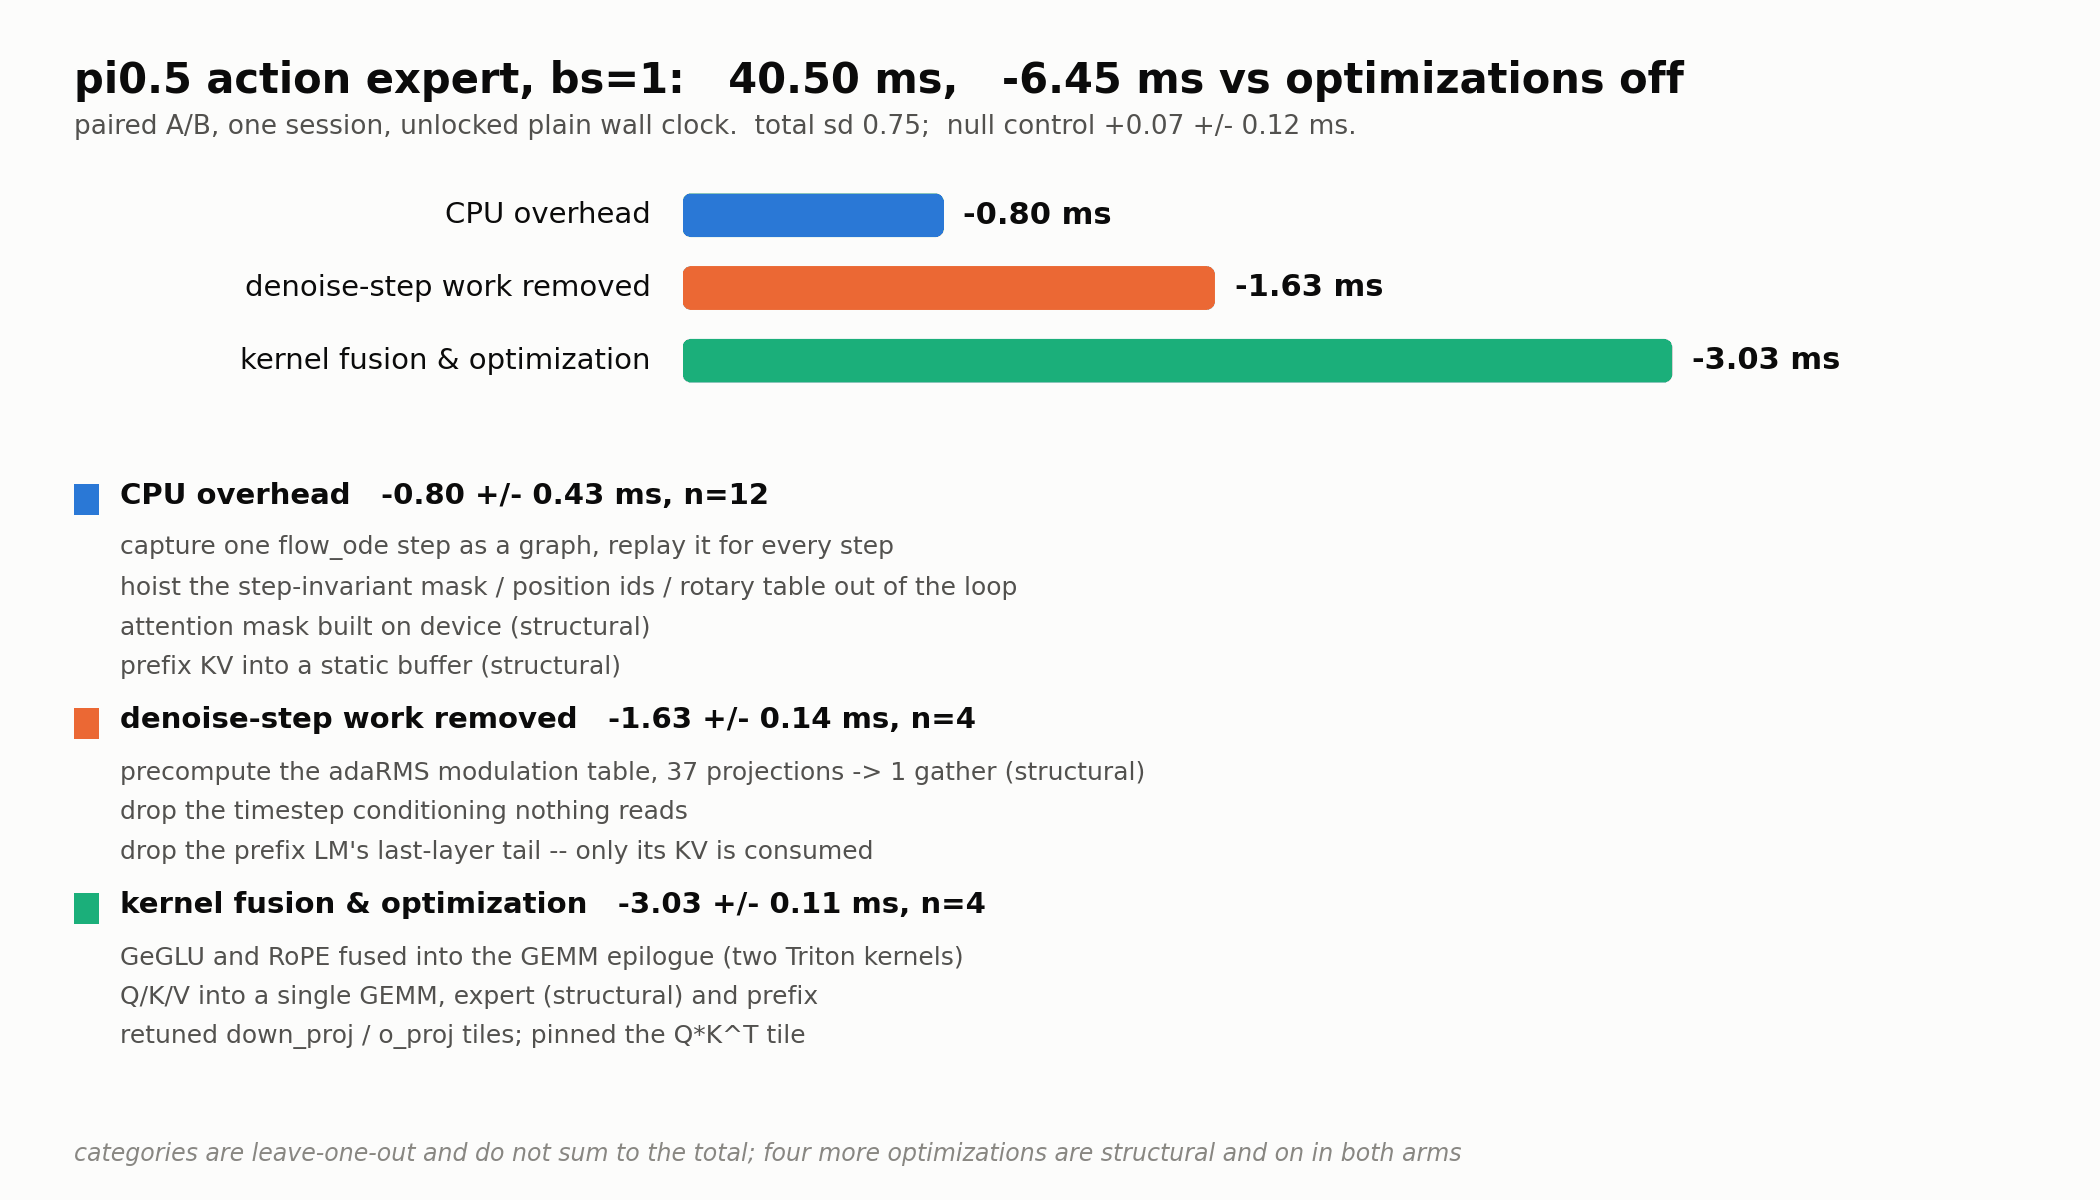
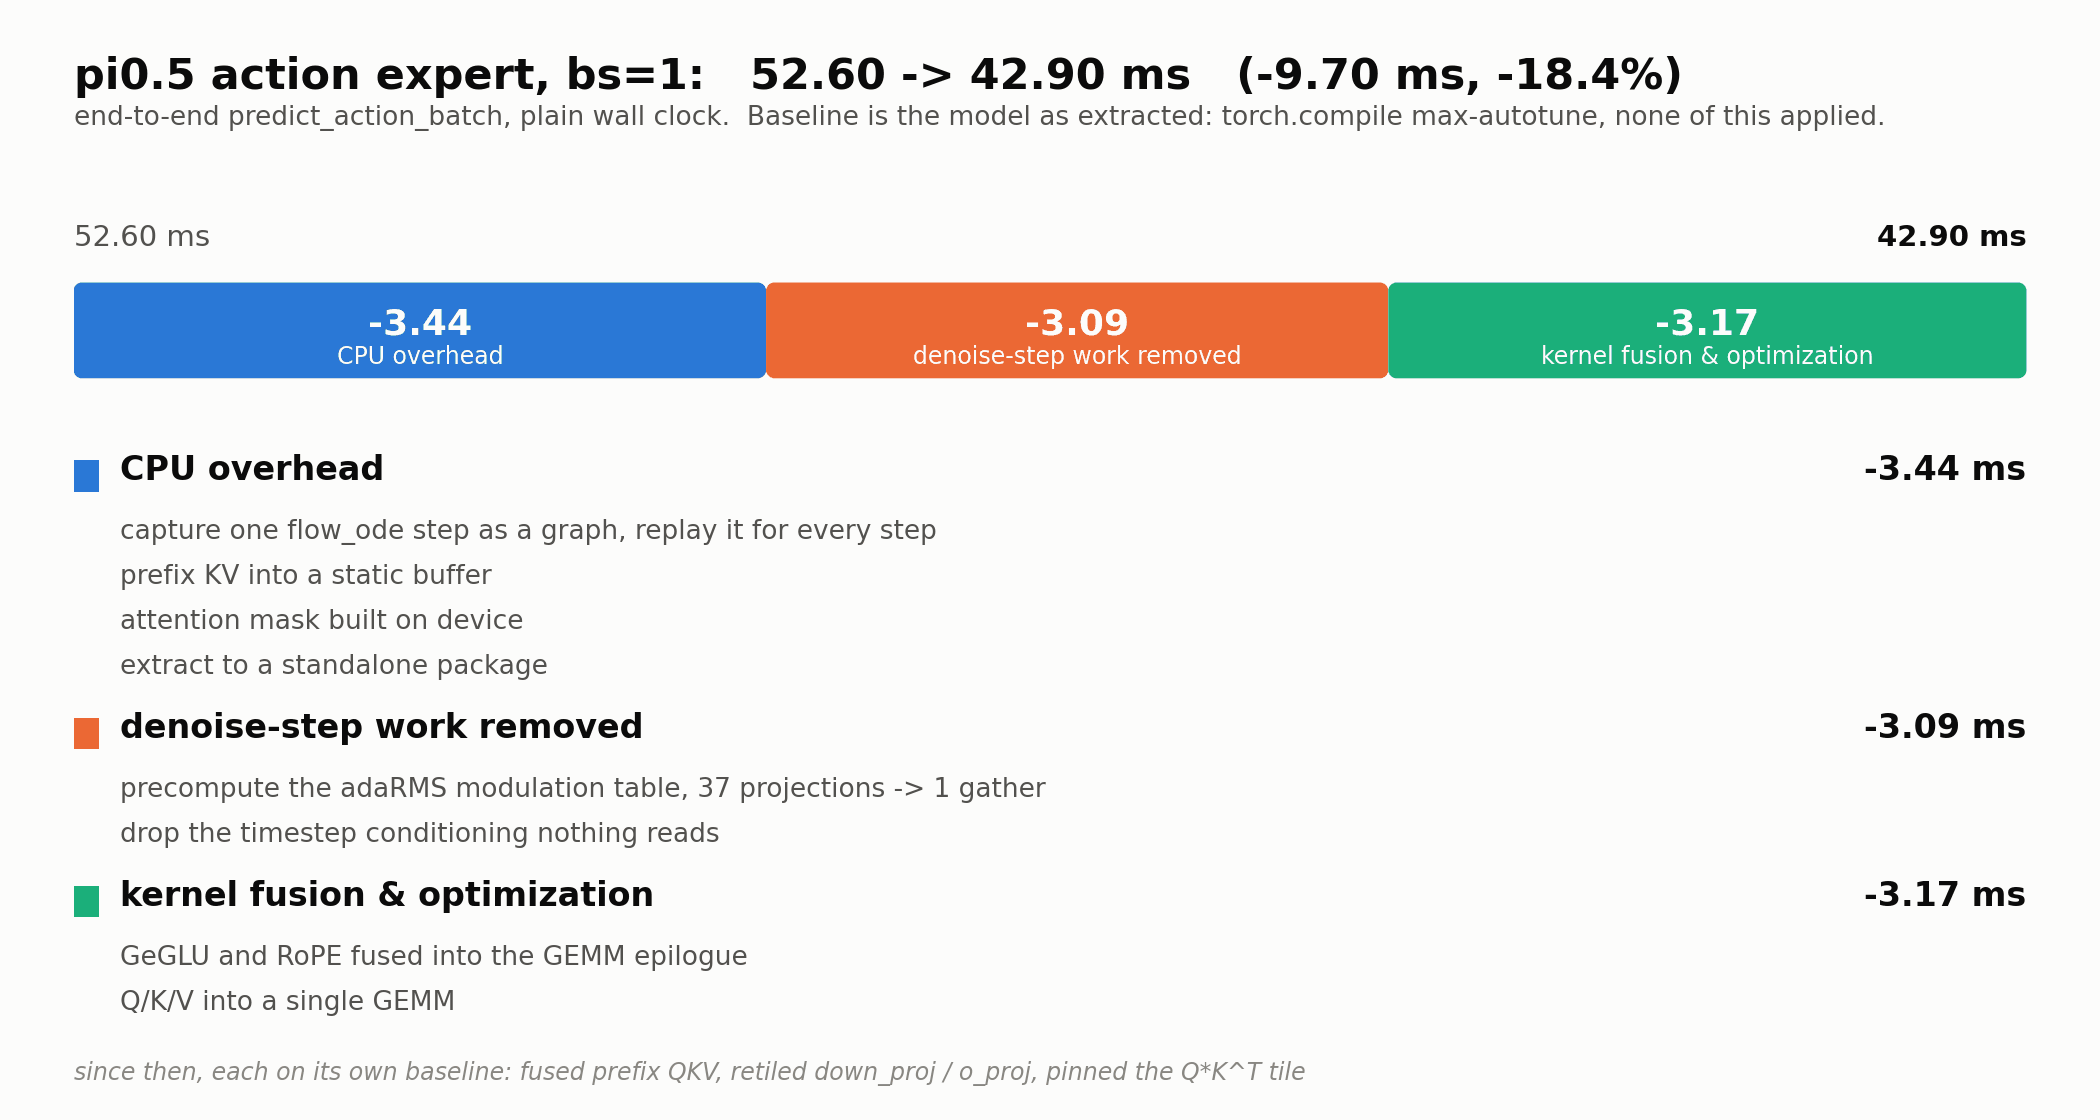
docs(chart): show the improvement over the original baseline
The chart had drifted into showing current main against an artificial arm --
'optimizations off', which is not a thing anyone ships and not what this
repository is for. It shows the improvement over the model as it arrived:
torch.compile max-autotune with none of this work applied.

52.60 -> 42.90 ms, split into the three categories, which sum to 9.70 exactly
because every ledger row is its own paired A/B against the row above it.

Removed from the chart and both READMEs: n=, sd, null control, p50, and the
-6.45 leave-one-out total. Those are how the measurement was taken, not what it
produced, and the chart is not the place for them. The leave-one-out numbers
stay in the internal record.

diff --git a/docs/make_charts.py b/docs/make_charts.py
@@ -147,60 +147,48 @@ def _rounded_hbar(ax, y, x0, x1, height, color, radius_pt=4.0, zorder=3):
 
 
 # --------------------------------------------------------------------------
-# Chart 1 - what the shipped optimizations are worth
+# Chart 1 - improvement over the original baseline
 # --------------------------------------------------------------------------
-# 2026-08-03, commit 6d78b8a, RTX PRO 5000, torch 2.7.1+cu128, clocks UNLOCKED
-# and sampled. Alternating paired rounds, one shared inductor cache, GPU lock held
-# per round. Null control +0.07 +/- 0.12 ms over 9 rounds.
+# Baseline is the extracted model as it arrived: torch.compile max-autotune, none
+# of this work applied. e2e = predict_action_batch, plain CPU wall clock, 30 iters
+# after 8 warmups, serialized, RTX PRO 5000 at its 300 W default.
 #
-# TOTAL: all eight switchable optimizations off at once, vs shipping defaults.
-# CATEGORIES: leave-one-out from shipping defaults, so they are what you lose by
-# turning that group off. They do not sum to the total -- interactions, and four
-# more optimizations are structural and on in both arms of every round.
-ON_MS = 40.50
-TOTAL, TOTAL_SD = 6.45, 0.75
-NULL, NULL_SD = 0.07, 0.12
+# Each ledger row is its own paired A/B against the row above it, so the deltas
+# are additive; the three category totals are sums of those deltas and add to 9.70.
+BASE, LEDGER_END, NOW = 52.60, 42.90, 40.50
 
 CATS = [
     (
         "CPU overhead",
-        0.80,
-        0.43,
-        12,
+        3.44,
         [
             "capture one flow_ode step as a graph, replay it for every step",
-            "hoist the step-invariant mask / position ids / rotary table out of the loop",
-            "attention mask built on device (structural)",
-            "prefix KV into a static buffer (structural)",
+            "prefix KV into a static buffer",
+            "attention mask built on device",
+            "extract to a standalone package",
         ],
     ),
     (
         "denoise-step work removed",
-        1.63,
-        0.14,
-        4,
+        3.09,
         [
-            "precompute the adaRMS modulation table, 37 projections -> 1 gather (structural)",
+            "precompute the adaRMS modulation table, 37 projections -> 1 gather",
             "drop the timestep conditioning nothing reads",
-            "drop the prefix LM's last-layer tail -- only its KV is consumed",
         ],
     ),
     (
         "kernel fusion & optimization",
-        3.03,
-        0.11,
-        4,
+        3.17,
         [
-            "GeGLU and RoPE fused into the GEMM epilogue (two Triton kernels)",
-            "Q/K/V into a single GEMM, expert (structural) and prefix",
-            "retuned down_proj / o_proj tiles; pinned the Q*K^T tile",
+            "GeGLU and RoPE fused into the GEMM epilogue",
+            "Q/K/V into a single GEMM",
         ],
     ),
 ]
 
-FOOTNOTE = (
-    "categories are leave-one-out and do not sum to the total; four more "
-    "optimizations are structural and on in both arms"
+SINCE = (
+    "since then, each on its own baseline: fused prefix QKV, retiled "
+    "down_proj / o_proj, pinned the Q*K^T tile"
 )
 
 
@@ -208,56 +196,84 @@ def chart_ledger(mode: str) -> None:
     t = THEMES[mode]
     _style(t)
     colors = [t["s1"], t["s2"], t["s3"]]
+    span = BASE - LEDGER_END
 
-    fig = plt.figure(figsize=(10.5, 6.0), dpi=200)
-    ax = fig.add_axes((0.325, 0.660, 0.560, 0.200))
-    ax.set_xlim(0, 3.6)
-    ax.set_ylim(-0.65, 2.65)
+    fig = plt.figure(figsize=(10.5, 5.6), dpi=200)
+    ax = fig.add_axes((0.035, 0.660, 0.930, 0.090))
+    ax.set_xlim(0, span)
+    ax.set_ylim(-0.5, 0.5)
     ax.axis("off")
 
-    for i, ((label, ms, sd, n, _items), c) in enumerate(zip(CATS, colors)):
-        y = 2 - i
-        _rounded_hbar(ax, y, 0, ms, 0.60, c, radius_pt=3.0)
+    x = 0.0
+    for (label, ms, _items), c in zip(CATS, colors):
+        _rounded_hbar(ax, 0, x, x + ms, 0.95, c, radius_pt=3.0)
         ax.text(
-            ms + 0.06,
-            y,
-            f"-{ms:.2f} ms",
-            ha="left",
+            x + ms / 2,
+            0.06,
+            f"-{ms:.2f}",
+            ha="center",
             va="center",
-            fontsize=11,
+            fontsize=13,
             fontweight="bold",
-            color=t["ink"],
+            color=t["surface"],
         )
-        fy = 0.660 + 0.200 * (y + 0.65) / 3.30
-        fig.text(0.310, fy, label, ha="right", va="center", fontsize=10.5, color=t["ink"])
+        ax.text(
+            x + ms / 2,
+            -0.26,
+            label,
+            ha="center",
+            va="center",
+            fontsize=8.5,
+            color=t["surface"],
+        )
+        x += ms
 
     fig.suptitle(
-        f"pi0.5 action expert, bs=1:   {ON_MS:.2f} ms,   -{TOTAL:.2f} ms "
-        f"vs optimizations off",
+        f"pi0.5 action expert, bs=1:   {BASE:.2f} -> {LEDGER_END:.2f} ms   "
+        f"(-{span:.2f} ms, -{100 * span / BASE:.1f}%)",
         x=0.035,
         y=0.950,
         ha="left",
-        fontsize=15,
+        fontsize=15.5,
         fontweight="bold",
         color=t["ink"],
     )
     fig.text(
         0.035,
         0.888,
-        f"paired A/B, one session, unlocked plain wall clock.  "
-        f"total sd {TOTAL_SD:.2f};  null control +{NULL:.2f} +/- {NULL_SD:.2f} ms.",
+        "end-to-end predict_action_batch, plain wall clock.  Baseline is the model "
+        "as extracted: torch.compile max-autotune, none of this applied.",
         ha="left",
         fontsize=9.5,
         color=t["ink2"],
     )
+    fig.text(
+        0.035,
+        0.775,
+        f"{BASE:.2f} ms",
+        ha="left",
+        va="bottom",
+        fontsize=10.5,
+        color=t["ink2"],
+    )
+    fig.text(
+        0.965,
+        0.775,
+        f"{LEDGER_END:.2f} ms",
+        ha="right",
+        va="bottom",
+        fontsize=10.5,
+        fontweight="bold",
+        color=t["ink"],
+    )
 
-    y = 0.575
-    for (label, ms, sd, n, items), c in zip(CATS, colors):
+    y = 0.565
+    for (label, ms, items), c in zip(CATS, colors):
         fig.patches.append(
             plt.Rectangle(
                 (0.035, y - 0.004),
                 0.012,
-                0.026,
+                0.028,
                 transform=fig.transFigure,
                 facecolor=c,
                 edgecolor="none",
@@ -267,23 +283,33 @@ def chart_ledger(mode: str) -> None:
         fig.text(
             0.057,
             y,
-            f"{label}   -{ms:.2f} +/- {sd:.2f} ms, n={n}",
+            label,
             ha="left",
             va="bottom",
-            fontsize=10.5,
+            fontsize=12,
             fontweight="bold",
             color=t["ink"],
         )
-        y -= 0.042
+        fig.text(
+            0.965,
+            y,
+            f"-{ms:.2f} ms",
+            ha="right",
+            va="bottom",
+            fontsize=12,
+            fontweight="bold",
+            color=t["ink"],
+        )
+        y -= 0.052
         for it in items:
-            fig.text(0.057, y, it, ha="left", va="bottom", fontsize=9, color=t["ink2"])
-            y -= 0.033
-        y -= 0.013
+            fig.text(0.057, y, it, ha="left", va="bottom", fontsize=9.5, color=t["ink2"])
+            y -= 0.040
+        y -= 0.018
 
     fig.text(
         0.035,
-        0.028,
-        FOOTNOTE,
+        0.030,
+        SINCE,
         ha="left",
         va="bottom",
         fontsize=8.5,

diff --git a/README.md b/README.md
@@ -11,11 +11,10 @@ change of sampler, no reduction in denoising steps.
 
 <picture>
   <source media="(prefers-color-scheme: dark)" srcset="docs/ledger_dark.png">
-  <img alt="Paired A/B: 40.50 ms, -6.45 ms versus optimizations off, split into CPU overhead -0.80, denoise-step work removed -1.63, kernel fusion and optimization -3.03" src="docs/ledger_light.png">
+  <img alt="52.60 to 42.90 ms, split into CPU overhead -3.44, denoise-step work removed -3.09, kernel fusion and optimization -3.17" src="docs/ledger_light.png">
 </picture>
 
-Current `main`: **40.50 ms**, unlocked plain wall clock, n=30, p50.
-**-6.45 ms** against the same build with its switchable optimizations off.
+Current `main`: **40.50 ms** (unlocked wall clock).
 
 <details>
 <summary>Where a denoise step goes</summary>

diff --git a/README.zh-CN.md b/README.zh-CN.md
@@ -10,11 +10,10 @@
 
 <picture>
   <source media="(prefers-color-scheme: dark)" srcset="docs/ledger_dark.png">
-  <img alt="配对 A/B:40.50 ms,相对关掉优化快 6.45 ms,分三类:CPU 开销 -0.80、去噪步冗余削减 -1.63、kernel 融合与调优 -3.03" src="docs/ledger_light.png">
+  <img alt="52.60 到 42.90 ms,分三类:CPU 开销 -3.44、去噪步冗余削减 -3.09、kernel 融合与调优 -3.17" src="docs/ledger_light.png">
 </picture>
 
-当前 `main`:**40.50 ms**,不锁频 plain wall clock,n=30,p50。
-相对同一构建关掉可开关的优化,**快 6.45 ms**。
+当前 `main`:**40.50 ms**(不锁频 wall clock)。
 
 <details>
 <summary>一个去噪步花在哪里</summary>
